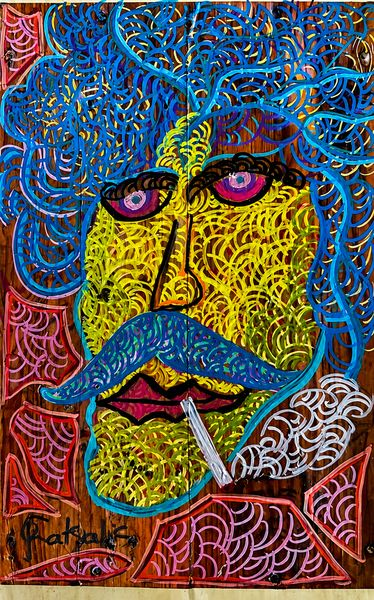
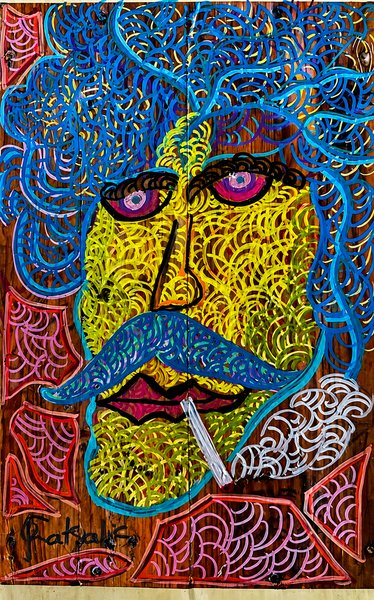
dfdfd

diff --git a/portofolio.html b/portofolio.html
@@ -258,8 +258,8 @@
                 <ul class="works__grid" id="works">
                     <li>
                         <figure class="work">
-                            <button type="button" class="work__open" data-full="images/portofolio/display/marinero_2.jpg" data-title="Marinero" aria-label="Marinero">
-                                <img src="images/portofolio/thumbs/marinero_2.jpg" alt="Portrait of a sailor with blue hair and mustache, painted in dense wavy patterns on wood." width="374" height="600" loading="eager" decoding="async">
+                            <button type="button" class="work__open" data-full="images/portofolio/display/marinero_2.jpg?v=3" data-title="Marinero" aria-label="Marinero">
+                                <img src="images/portofolio/thumbs/marinero_2.jpg?v=3" alt="Portrait of a sailor with blue hair and mustache, painted in dense wavy patterns on wood." width="374" height="600" loading="eager" decoding="async">
                             </button>
                             <figcaption class="work__label">Marinero</figcaption>
                         </figure>